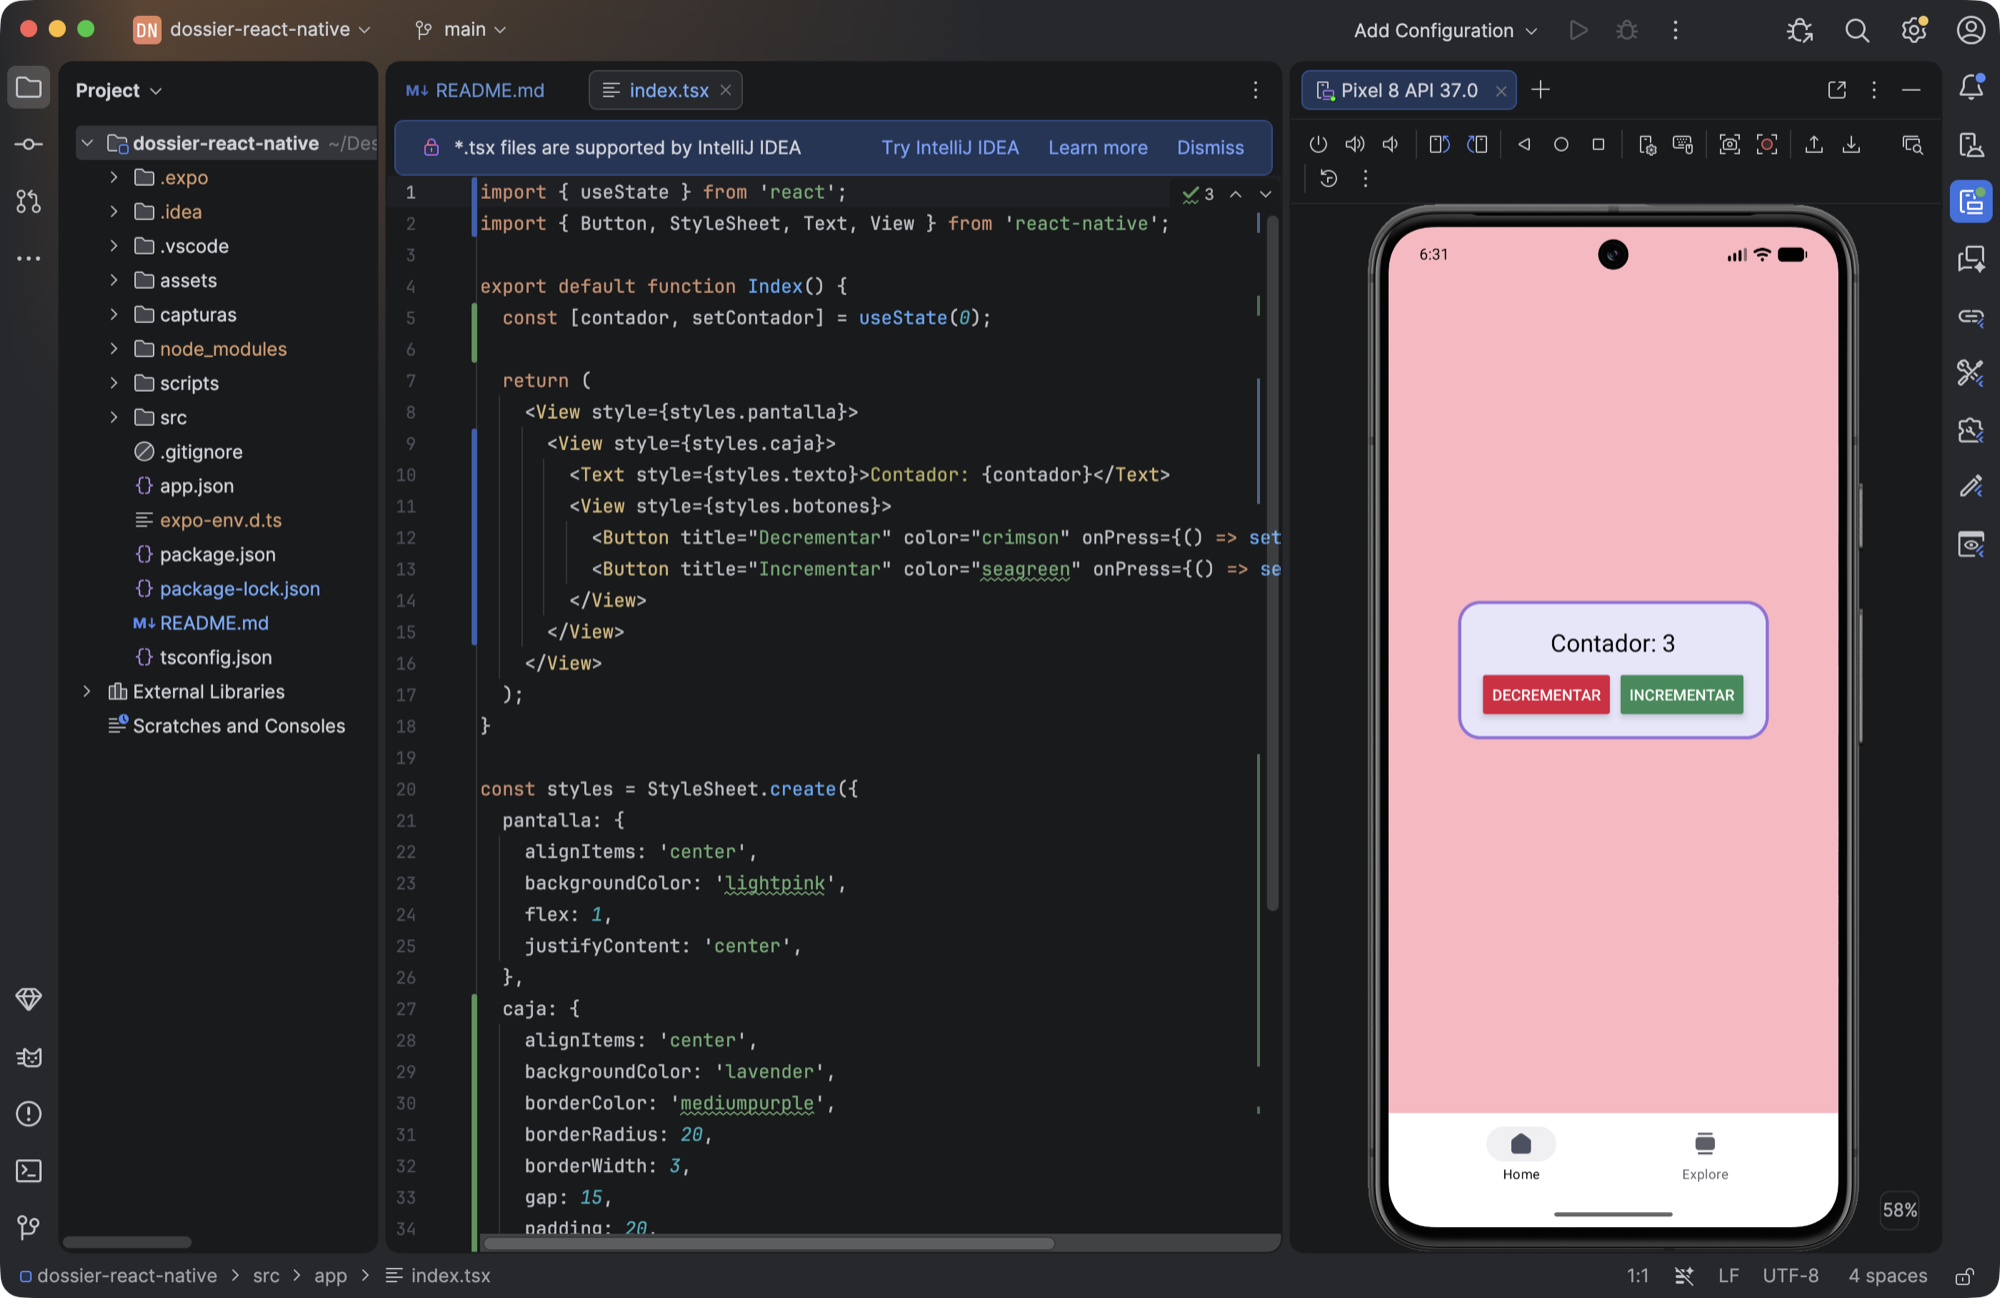
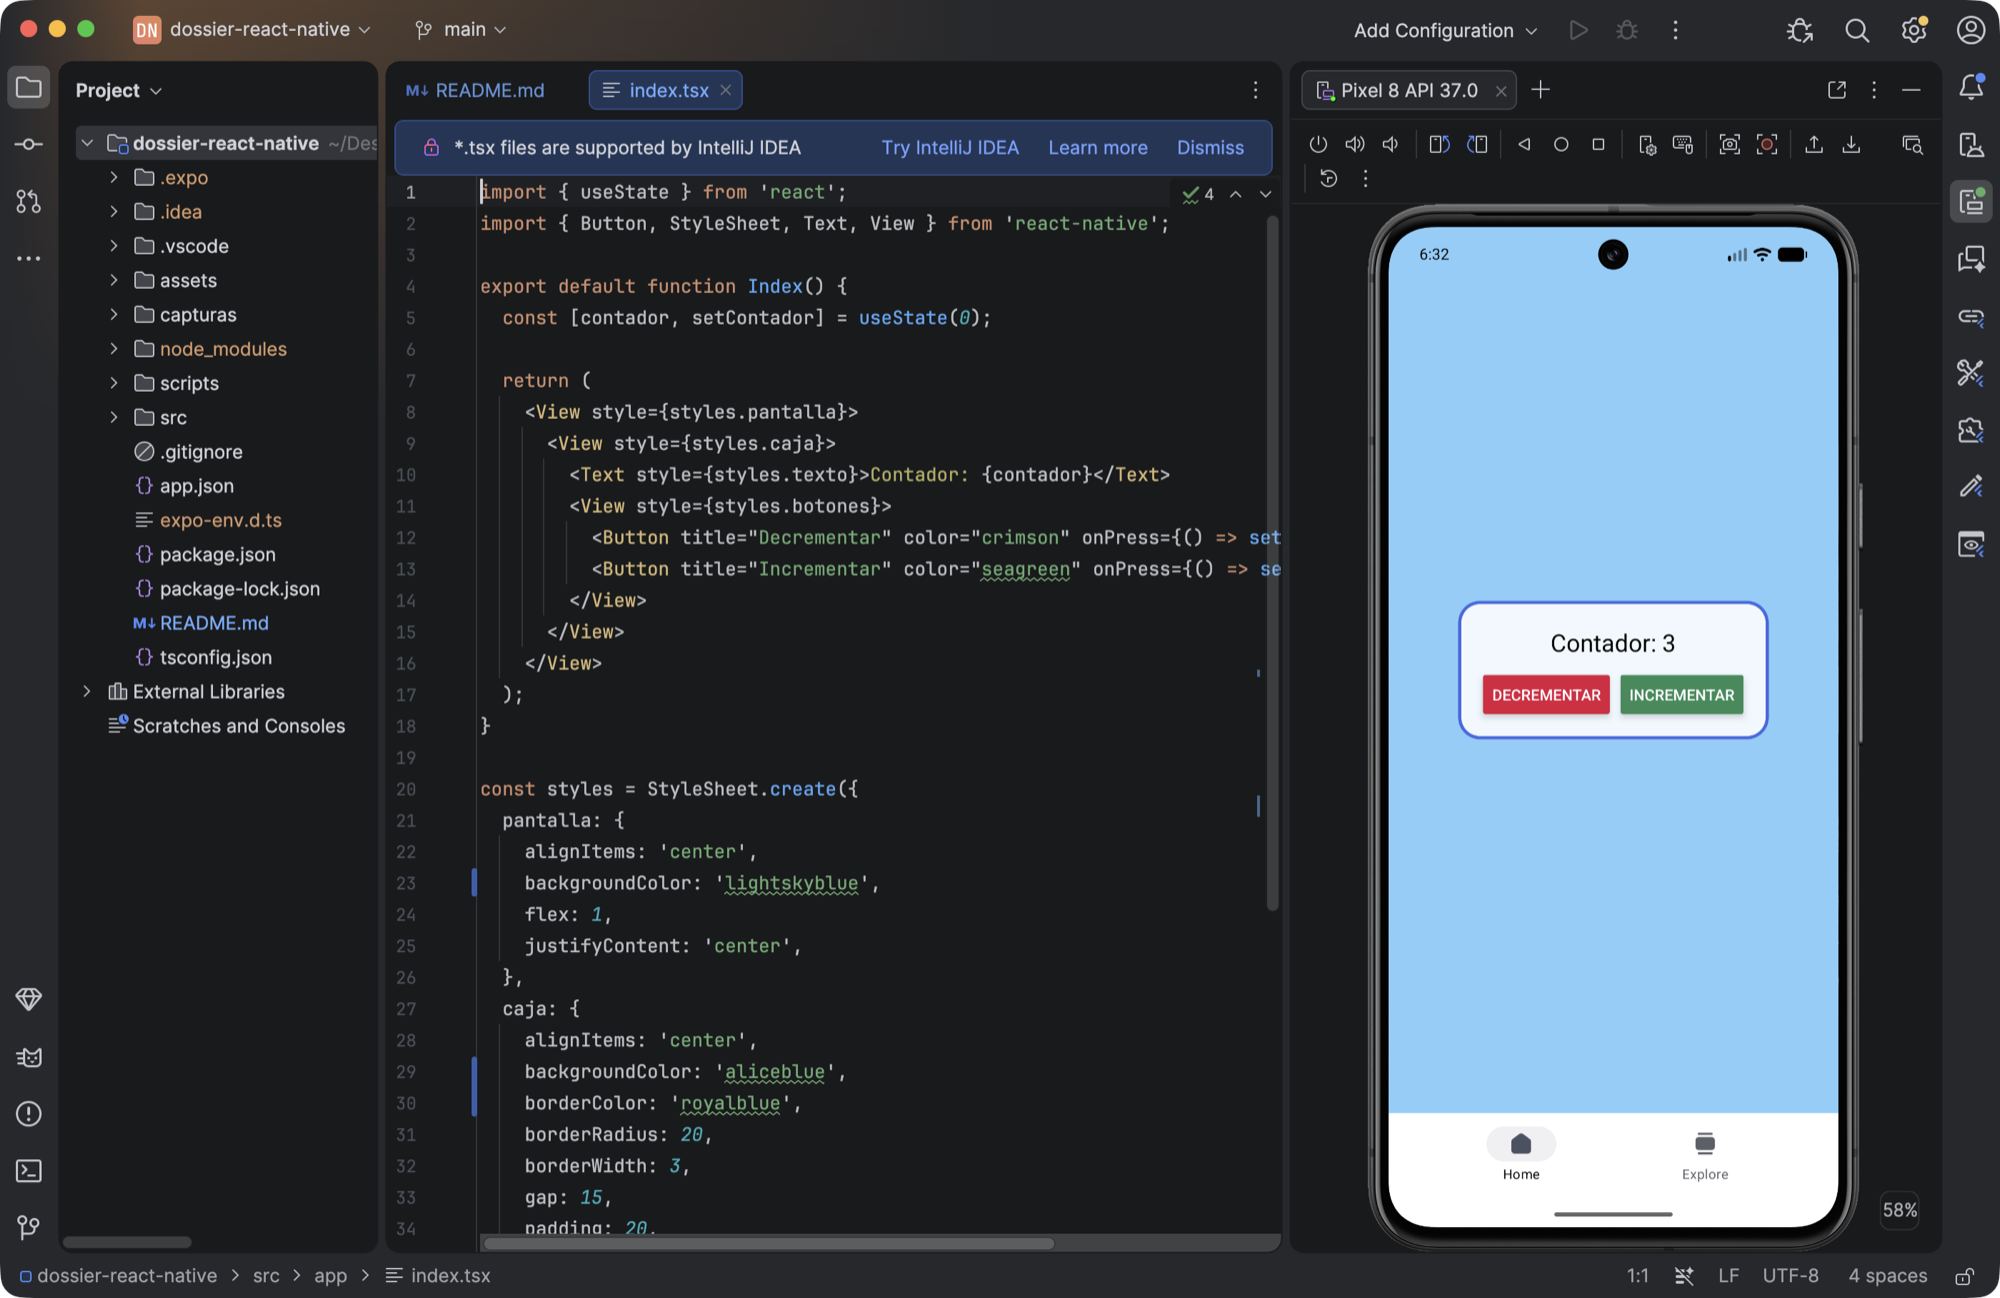
Dossier: práctica 2 con el fondo en azul

diff --git a/src/app/index.tsx b/src/app/index.tsx
@@ -20,14 +20,14 @@ export default function Index() {
 const styles = StyleSheet.create({
   pantalla: {
     alignItems: 'center',
-    backgroundColor: 'lightpink',
+    backgroundColor: 'lightskyblue',
     flex: 1,
     justifyContent: 'center',
   },
   caja: {
     alignItems: 'center',
-    backgroundColor: 'lavender',
-    borderColor: 'mediumpurple',
+    backgroundColor: 'aliceblue',
+    borderColor: 'royalblue',
     borderRadius: 20,
     borderWidth: 3,
     gap: 15,

diff --git a/README.md b/README.md
@@ -87,7 +87,7 @@ Partiendo del ejemplo del contador, cambiar el color del borde y del fondo, redo
 ### Cómo lo he hecho
 1. En `src/app/index.tsx` creé el estado `contador` con `useState(0)`.
 2. Puse dos `Button`, cada uno con su `onPress`: el de «Incrementar» hace `setContador(n => n + 1)` y el de «Decrementar» hace `setContador(n => n - 1)`.
-3. Metí el texto y los botones dentro de una caja (`View`) con fondo lavanda, borde morado y `borderRadius: 20`, y puse los botones en fila con `flexDirection: 'row'`.
+3. Puse el fondo de la pantalla en azul (`lightskyblue`) y metí el texto y los botones dentro de una caja (`View`) con fondo azul clarito, borde azul y `borderRadius: 20`, y puse los botones en fila con `flexDirection: 'row'`.
 4. Los estilos van todos en `StyleSheet.create()`. El color de los botones lo cambio con la prop `color`, porque el `Button` nativo no deja ponerle estilos como a un `View`.
 
 ```tsx
